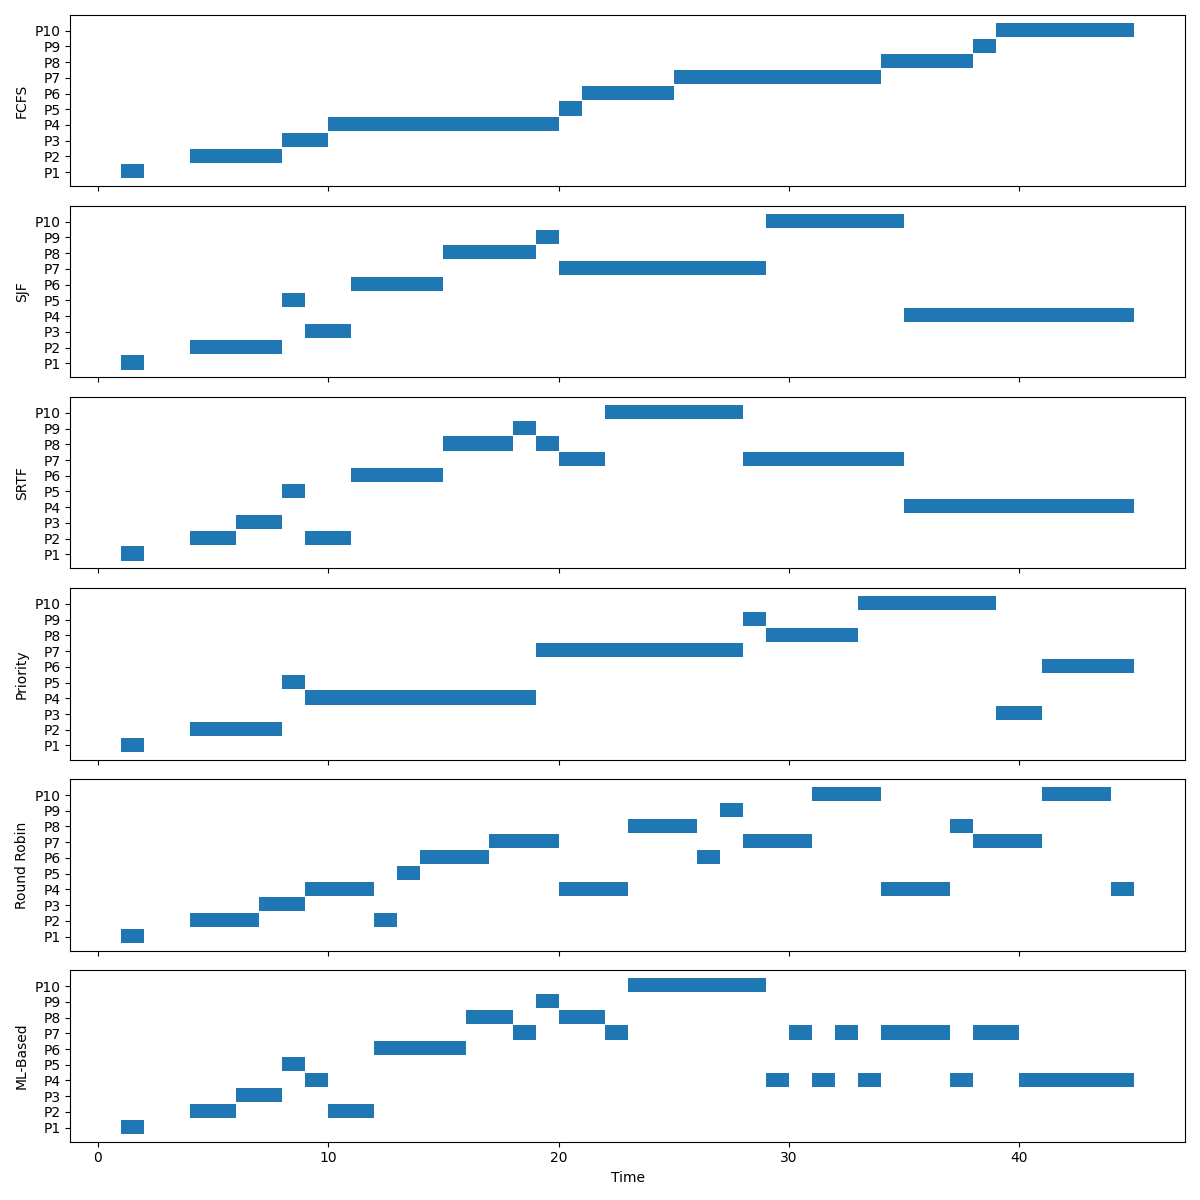
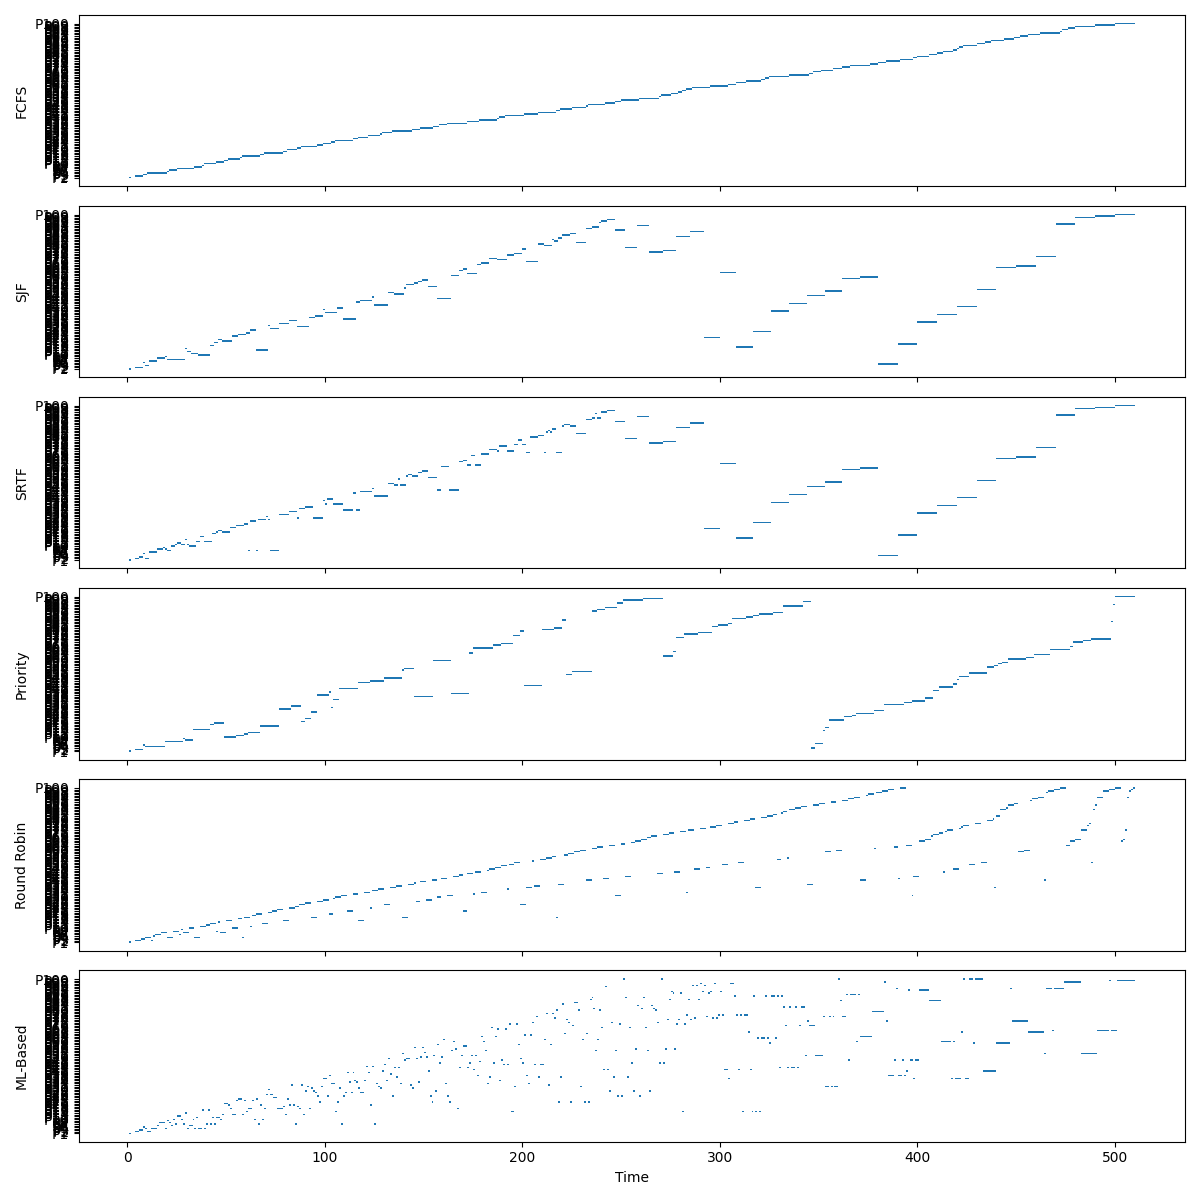
Adding config to set number of processes for evaluation. Updated output print format for better appearance.

diff --git a/Simulator.py b/Simulator.py
@@ -6,6 +6,7 @@ import copy
 import matplotlib.pyplot as plt
 import numpy as np
 import sys
+from typing import Final
 
 # Imports for ML scheduling
 from ML import MLSchedulerAgent, train_agent, run_simulation_ml, scheduler_ml
@@ -17,6 +18,9 @@ from round_robin_scheduler import RoundRobinScheduler
 from shortest_remaining_time_first import ShortestRemainingTimeFirstScheduler
 from shortest_job_first import ShortestJobFirstScheduler
 from priority_scheduler import PriorityScheduler
+
+# Set number of processes to generate and evaluate scheduling algorithm
+NUMBER_OF_PROCESSES_GENERATED : Final = 100
 
 # Force output to be unbuffered
 sys.stdout.reconfigure(line_buffering=True)
@@ -143,7 +147,7 @@ print("Starting CPU Scheduler Simulation")
 print("="*50 + "\n")
 
 # Generate a smaller number of processes for clearer demonstration
-sample_processes = generate_processes(10, seed=42)
+sample_processes = generate_processes(NUMBER_OF_PROCESSES_GENERATED, seed=42)
 
 print("Generated Processes:")
 print("-"*30)
@@ -212,10 +216,10 @@ print_results("Round Robin (Time Quantum = 3)", results_rr)
 print_results("ML-Based Scheduler", results_ml)
 
 print("\n" + "="*50)
-print("Average Metrics")
+print(f"Average Metrics (Num of processes evaluated: {NUMBER_OF_PROCESSES_GENERATED})")
 print("="*50 + "\n")
-
-print("Algorithm\t\tAvg Turnaround\tAvg Wait")
+# Ensure output format in terminal is perfectly aligned for columns and their respective data
+print(f"{'Algorithm':<15} {'Avg Turnaround':>15} {'Avg Wait':>15}")
 print("-" * 50)
 for alg, (turnaround, wait) in metrics.items():
     print(f"{alg:<15}\t{turnaround:>8.2f}\t\t{wait:>8.2f}")
